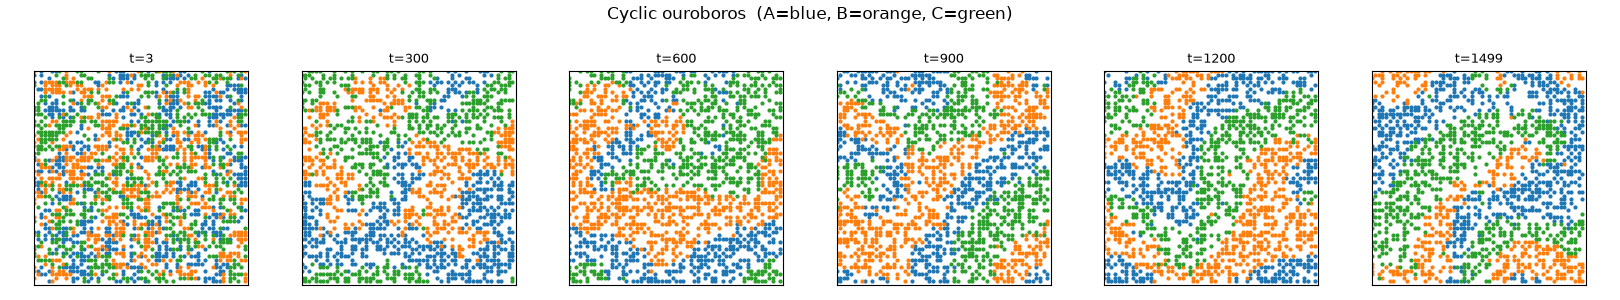
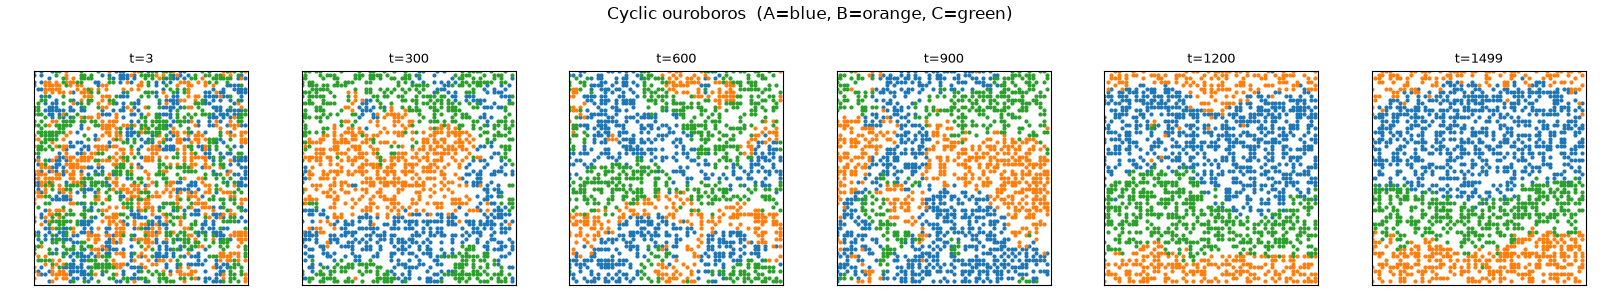
conservation tolerance fn and update checks in ledger / scenarios

diff --git a/tests/test_predation_chains.py b/tests/test_predation_chains.py
@@ -1,0 +1,263 @@
+"""Chain-predation tests — §5.3 (coordinate-independent "death cancels action").
+
+A kill chain A→B→C means A's attack on B and B's attack on C both qualify in
+RESOLVE (each attacker strictly out-energies its prey). The outcome must be
+determined by energy alone, independent of grid cell coordinates:
+
+  - a blob killed this step does NOT execute its own attack;
+  - cancellation does NOT cascade past a surviving (freed) blob.
+
+So for A(15)→B(10)→C(5): A kills B; B's attack on C is cancelled; C survives.
+For A→B→C→D: A kills B; C (freed) kills D; survivors {A, C}.
+"""
+from __future__ import annotations
+
+import pytest
+
+from blobsim.blob import Blob, BlobAttributes, BlobStatus
+from blobsim.config import SpeciesConfig
+from blobsim.engine import SimulationEngine
+from blobsim.ledger import check_conservation
+from blobsim.rng import make_blob_rng
+from blobsim.types import Action, ActionType, MOORE
+
+from conftest import FixedActionRules
+
+from test_predation import _build_engine
+
+
+# ---------------------------------------------------------------------------
+# Helpers
+# ---------------------------------------------------------------------------
+
+def _chain_attrs(species: str, prey: str | None) -> BlobAttributes:
+    """Attributes for a chain link. Zero costs / large max_energy so a killer's
+    post-step energy is simply start + prey.energy.
+
+    prey=None builds an inert tail (IDLE only, no preys_on).
+    """
+    if prey is None:
+        allowed = frozenset({ActionType.IDLE})
+        preys_on = frozenset()
+    else:
+        allowed = frozenset({ActionType.IDLE, ActionType.ATTACK})
+        preys_on = frozenset({prey})
+    return BlobAttributes.create(
+        species=species,
+        max_energy=1000.0,
+        offspring_energy=1.0,
+        reproduction_threshold=float("inf"),
+        base_metabolic_cost=0.0,
+        move_cost=0.0,
+        reproduce_cost=0.0,
+        attack_cost=0.0,
+        observation_radius=1,
+        allowed_actions=allowed,
+        allowed_directions=MOORE,
+        preys_on=preys_on,
+    )
+
+
+def _dir(src: tuple[int, int], dst: tuple[int, int]) -> tuple[int, int]:
+    return (dst[0] - src[0], dst[1] - src[1])
+
+
+def _build_chain_engine(
+    links: list[tuple[str, float, tuple[int, int]]],
+) -> SimulationEngine:
+    """Build an engine for a kill chain.
+
+    links is ordered predator→prey: links[i] attacks links[i+1]; the last link
+    is an inert tail. Blob ids equal list index, so links[0]=A=id 0, etc.
+    """
+    blobs: list[Blob] = []
+    species_configs: dict[str, SpeciesConfig] = {}
+
+    for i, (species, energy, pos) in enumerate(links):
+        prey = links[i + 1][0] if i + 1 < len(links) else None
+        attrs = _chain_attrs(species, prey)
+        if prey is None:
+            action = Action(ActionType.IDLE)
+        else:
+            action = Action(ActionType.ATTACK, direction=_dir(pos, links[i + 1][2]))
+        blobs.append(Blob(
+            blob_id=i,
+            attributes=attrs,
+            status=BlobStatus(energy=energy, age=0, position=pos),
+            rules=FixedActionRules(action),
+            rng=make_blob_rng(0, i),
+        ))
+        species_configs[species] = SpeciesConfig(
+            rules_factory=lambda a=action: FixedActionRules(a),
+            attributes=attrs,
+            count=1,
+            initial_energy=energy,
+        )
+
+    return _build_engine(blobs, species_configs)
+
+
+def _survivors(engine: SimulationEngine) -> set[str]:
+    return {b.attributes.species for b in engine.blobs}
+
+
+# ---------------------------------------------------------------------------
+# §5.3 — 3-chain A→B→C, coordinate independence
+# ---------------------------------------------------------------------------
+
+def test_chain_abc_survivors_coordinate_independent() -> None:
+    """A(15)→B(10)→C(5): survivors {A, C} regardless of cell sort order."""
+    # Forward: prey cells sort ascending B<C → A's prey sorts first.
+    fwd = _build_chain_engine([
+        ("A", 15.0, (5, 4)), ("B", 10.0, (5, 5)), ("C", 5.0, (5, 6)),
+    ])
+    # Reverse: prey cells sort ascending C<B → tail's prey sorts first.
+    rev = _build_chain_engine([
+        ("A", 15.0, (5, 7)), ("B", 10.0, (5, 6)), ("C", 5.0, (5, 5)),
+    ])
+    fwd.step()
+    rev.step()
+
+    assert _survivors(fwd) == {"A", "C"}
+    assert _survivors(rev) == {"A", "C"}
+    # C untouched in both (its attacker B was killed → B's attack cancelled).
+    c_fwd = next(b for b in fwd.blobs if b.attributes.species == "C")
+    c_rev = next(b for b in rev.blobs if b.attributes.species == "C")
+    assert c_fwd.status.energy == pytest.approx(5.0, abs=1e-10)
+    assert c_rev.status.energy == pytest.approx(5.0, abs=1e-10)
+    # A absorbed B's full energy (zero costs, ample headroom).
+    a_fwd = next(b for b in fwd.blobs if b.attributes.species == "A")
+    assert a_fwd.status.energy == pytest.approx(25.0, abs=1e-10)
+
+
+# ---------------------------------------------------------------------------
+# §5.3 — 4-chain A→B→C→D
+# ---------------------------------------------------------------------------
+
+def test_chain_four_abcd() -> None:
+    """A(15)→B(10)→C(5)→D(2): survivors {A, C}, dead {B, D}, both layouts.
+
+    Parity: A executes (kills B); B killed → cancelled; C freed → executes
+    (kills D); D killed. Cancellation does not cascade past freed C.
+    """
+    fwd = _build_chain_engine([
+        ("A", 15.0, (5, 4)), ("B", 10.0, (5, 5)),
+        ("C", 5.0, (5, 6)), ("D", 2.0, (5, 7)),
+    ])
+    rev = _build_chain_engine([
+        ("A", 15.0, (5, 7)), ("B", 10.0, (5, 6)),
+        ("C", 5.0, (5, 5)), ("D", 2.0, (5, 4)),
+    ])
+    fwd.step()
+    rev.step()
+
+    assert _survivors(fwd) == {"A", "C"}
+    assert _survivors(rev) == {"A", "C"}
+    # C survived AND ate D → energy 5 + 2 = 7.
+    c_fwd = next(b for b in fwd.blobs if b.attributes.species == "C")
+    assert c_fwd.status.energy == pytest.approx(7.0, abs=1e-10)
+
+
+# ---------------------------------------------------------------------------
+# §5.3 — conservation
+# ---------------------------------------------------------------------------
+
+def test_chain_conservation() -> None:
+    """Energy conservation holds after a chain step."""
+    engine = _build_chain_engine([
+        ("A", 15.0, (5, 4)), ("B", 10.0, (5, 5)),
+        ("C", 5.0, (5, 6)), ("D", 2.0, (5, 7)),
+    ])
+    engine.step()
+    # Raises ConservationError if violated.
+    check_conservation(engine.blobs, engine.grid, engine.ledger)
+
+
+# ---------------------------------------------------------------------------
+# §5.3 — cancelled attacker records failure
+# ---------------------------------------------------------------------------
+
+def test_cancelled_attacker_records_failure() -> None:
+    """B (killed by A) has its ATTACK recorded as failed with zero gain."""
+    engine = _build_chain_engine([
+        ("A", 15.0, (5, 4)), ("B", 10.0, (5, 5)), ("C", 5.0, (5, 6)),
+    ])
+    engine.step()
+
+    step0 = engine.recorder.blob_records[0]
+    b_rec = next(r for r in step0 if r.species == "B")
+    assert b_rec.action_taken == ActionType.ATTACK
+    assert b_rec.action_succeeded is False
+    assert b_rec.energy_gained_from_predation == pytest.approx(0.0, abs=1e-10)
+    assert b_rec.alive is False
+
+
+# ---------------------------------------------------------------------------
+# §5.3 — mutual A↔B plus B→C tail: non-cascading cancellation
+# ---------------------------------------------------------------------------
+
+def _build_mutual_plus_tail(
+    pos_a: tuple[int, int],
+    pos_b: tuple[int, int],
+    pos_c: tuple[int, int],
+) -> SimulationEngine:
+    """A(15)↔B(10) mutual attack; B also attacks C(5). A eats B; B's attack on
+    C is cancelled, so C survives. A preys on B, B preys on A and C, C inert."""
+    attrs_a = BlobAttributes.create(
+        species="A", max_energy=1000.0, offspring_energy=1.0,
+        reproduction_threshold=float("inf"), base_metabolic_cost=0.0,
+        move_cost=0.0, reproduce_cost=0.0, attack_cost=0.0, observation_radius=1,
+        allowed_actions=frozenset({ActionType.IDLE, ActionType.ATTACK}),
+        allowed_directions=MOORE, preys_on=frozenset({"B"}),
+    )
+    attrs_b = BlobAttributes.create(
+        species="B", max_energy=1000.0, offspring_energy=1.0,
+        reproduction_threshold=float("inf"), base_metabolic_cost=0.0,
+        move_cost=0.0, reproduce_cost=0.0, attack_cost=0.0, observation_radius=1,
+        allowed_actions=frozenset({ActionType.IDLE, ActionType.ATTACK}),
+        allowed_directions=MOORE, preys_on=frozenset({"A", "C"}),
+    )
+    attrs_c = _chain_attrs("C", None)
+
+    # A attacks B; B attacks C (B is stronger than C and also targeted by A).
+    blob_a = Blob(0, attrs_a, BlobStatus(15.0, 0, pos_a),
+                  FixedActionRules(Action(ActionType.ATTACK, _dir(pos_a, pos_b))),
+                  make_blob_rng(0, 0))
+    blob_b = Blob(1, attrs_b, BlobStatus(10.0, 0, pos_b),
+                  FixedActionRules(Action(ActionType.ATTACK, _dir(pos_b, pos_c))),
+                  make_blob_rng(0, 1))
+    blob_c = Blob(2, attrs_c, BlobStatus(5.0, 0, pos_c),
+                  FixedActionRules(Action(ActionType.IDLE)), make_blob_rng(0, 2))
+
+    species_configs = {
+        "A": SpeciesConfig(lambda: FixedActionRules(Action(ActionType.IDLE)),
+                           attrs_a, 1, 15.0),
+        "B": SpeciesConfig(lambda: FixedActionRules(Action(ActionType.IDLE)),
+                           attrs_b, 1, 10.0),
+        "C": SpeciesConfig(lambda: FixedActionRules(Action(ActionType.IDLE)),
+                           attrs_c, 1, 5.0),
+    }
+    return _build_engine([blob_a, blob_b, blob_c], species_configs)
+
+
+def test_two_cycle_plus_tail_c_survives() -> None:
+    """A↔B mutual + B→C: A kills B, B's attack on C cancelled, C survives.
+
+    Coordinate-independent across two layouts.
+    """
+    # Layout 1: A left, B middle, C right.
+    e1 = _build_mutual_plus_tail((5, 4), (5, 5), (5, 6))
+    # Layout 2: mirrored so prey-cell sort order differs.
+    e2 = _build_mutual_plus_tail((5, 6), (5, 5), (5, 4))
+    e1.step()
+    e2.step()
+
+    assert _survivors(e1) == {"A", "C"}
+    assert _survivors(e2) == {"A", "C"}
+    c1 = next(b for b in e1.blobs if b.attributes.species == "C")
+    assert c1.status.energy == pytest.approx(5.0, abs=1e-10)
+    # A ate B: 15 + 10 = 25.
+    a1 = next(b for b in e1.blobs if b.attributes.species == "A")
+    assert a1.status.energy == pytest.approx(25.0, abs=1e-10)
+    # Conservation holds despite the cancelled B→C attack.
+    check_conservation(e1.blobs, e1.grid, e1.ledger)

diff --git a/scenarios/spatial_ouroboros.py b/scenarios/spatial_ouroboros.py
@@ -22,7 +22,7 @@ from blobsim.blob import Blob, BlobAttributes, BlobStatus  # noqa: E402
 from blobsim.config import SimulationConfig, SpeciesConfig  # noqa: E402
 from blobsim.environment import RegeneratingEnvironment  # noqa: E402
 from blobsim.grid import Grid  # noqa: E402
-from blobsim.ledger import EnergyLedger  # noqa: E402
+from blobsim.ledger import EnergyLedger, conservation_tolerance  # noqa: E402
 from blobsim.observability import StateRecorder  # noqa: E402
 from blobsim.engine import SimulationEngine  # noqa: E402
 from blobsim.conflict import RandomResolver  # noqa: E402
@@ -175,7 +175,11 @@ def _metrics(rec, gs, title, path):
     ax[1, 0].plot(A, B, lw=0.6, color="k"); ax[1, 0].scatter(A[0], B[0], c="g", s=30, zorder=3)
     ax[1, 0].set_title("phase portrait A vs B"); ax[1, 0].set_xlabel("A"); ax[1, 0].set_ylabel("B")
     ax[1, 1].semilogy(steps, np.clip(resid, 1e-16, None), color="#9467bd")
-    ax[1, 1].axhline(1e-10, color="r", ls=":", lw=1, label="INV-1 tol")
+    tol = np.array([
+        conservation_tolerance(ls.e_blobs, ls.e_grid, ls.e_dissipated, ls.e_injected)
+        for ls in rec.ledger_records
+    ])
+    ax[1, 1].plot(steps, tol, color="r", ls=":", lw=1, label="INV-1 tol")
     ax[1, 1].set_title("|conservation residual|"); ax[1, 1].set_xlabel("step"); ax[1, 1].legend(fontsize=8)
     fig.tight_layout(rect=(0, 0, 1, 0.96)); fig.savefig(path, dpi=90); plt.close(fig)
 

diff --git a/blobsim/ledger.py b/blobsim/ledger.py
@@ -66,6 +66,23 @@ _ABS_TOL: float = 1e-10
 _REL_TOL: float = 1e-12
 
 
+def conservation_tolerance(
+    e_blobs: float,
+    e_grid: float,
+    e_dissipated: float,
+    e_injected: float,
+) -> float:
+    """Per-step conservation tolerance: ABS_TOL + REL_TOL * throughput scale.
+
+    Single source of truth for the INV-1 tolerance, shared by
+    check_conservation and any diagnostics that plot the threshold.
+    """
+    scale = max(
+        1.0, abs(e_dissipated) + abs(e_injected) + abs(e_blobs) + abs(e_grid)
+    )
+    return _ABS_TOL + _REL_TOL * scale
+
+
 def check_conservation(
     blobs: Iterable[Blob],
     grid: Grid,
@@ -97,11 +114,10 @@ def check_conservation(
     e_injected = ledger.injected
     lhs = e_blobs + e_grid + e_dissipated - e_injected
     delta = lhs - ledger.initial_total
-    scale = max(1.0, abs(e_dissipated) + abs(e_injected) + abs(e_blobs) + abs(e_grid))
-    tol = _ABS_TOL + _REL_TOL * scale
+    tol = conservation_tolerance(e_blobs, e_grid, e_dissipated, e_injected)
     if abs(delta) > tol:
         raise ConservationError(
-            f"Conservation violated: delta={delta:.6e}, tol={tol:.6e}, scale={scale:.6e}, "
+            f"Conservation violated: delta={delta:.6e}, tol={tol:.6e}, "
             f"E_blobs={e_blobs}, E_grid={e_grid}, "
             f"dissipated={e_dissipated}, injected={e_injected}"
         )

diff --git a/scenarios/cyclic_ouroboros.py b/scenarios/cyclic_ouroboros.py
@@ -19,7 +19,7 @@ import numpy as np  # noqa: E402
 
 from blobsim.config import SimulationConfig, SpeciesConfig  # noqa: E402
 from blobsim.environment import RegeneratingEnvironment  # noqa: E402
-from blobsim.ledger import ConservationError  # noqa: E402
+from blobsim.ledger import ConservationError, conservation_tolerance  # noqa: E402
 from blobsim.rendering import render_gif  # noqa: E402
 from blobsim.simulation import Simulation  # noqa: E402
 
@@ -117,7 +117,11 @@ def _metrics(rec, title, path, lags):
                   ha="center", va="center", fontsize=12, transform=ax[1, 0].transAxes)
     ax[1, 0].axis("off")
     ax[1, 1].semilogy(steps, np.clip(resid, 1e-16, None), color="#9467bd")
-    ax[1, 1].axhline(1e-10, color="r", ls=":", lw=1, label="INV-1 tol")
+    tol = np.array([
+        conservation_tolerance(ls.e_blobs, ls.e_grid, ls.e_dissipated, ls.e_injected)
+        for ls in rec.ledger_records
+    ])
+    ax[1, 1].plot(steps, tol, color="r", ls=":", lw=1, label="INV-1 tol")
     ax[1, 1].set_title("|conservation residual|"); ax[1, 1].set_xlabel("step")
     ax[1, 1].legend(fontsize=8)
     fig.tight_layout(rect=(0, 0, 1, 0.96)); fig.savefig(path, dpi=90); plt.close(fig)

diff --git a/scenarios/PREDATION_SPEC.md b/scenarios/PREDATION_SPEC.md
@@ -119,7 +119,7 @@ A failed attack (attacker.energy <= victim.energy, or lost energy tie-break):
 
 | ID | Invariant | Check |
 |---|---|---|
-| INV-1 | Energy conservation: `E_blobs + E_grid + dissipated - injected == initial_total` | `check_conservation` after every step; residual < 1e-10 |
+| INV-1 | Energy conservation: `E_blobs + E_grid + dissipated - injected == initial_total` | `check_conservation` after every step; residual < `conservation_tolerance` (= `1e-10 + 1e-12 * throughput`, scales with accumulated energy so long runs don't trip on roundoff) |
 | INV-2 | Determinism: same seed → identical survivor set | Prey cells sorted; RNG consumed in fixed order |
 | INV-3 | One blob per cell | `check_one_per_cell` after every step |
 
